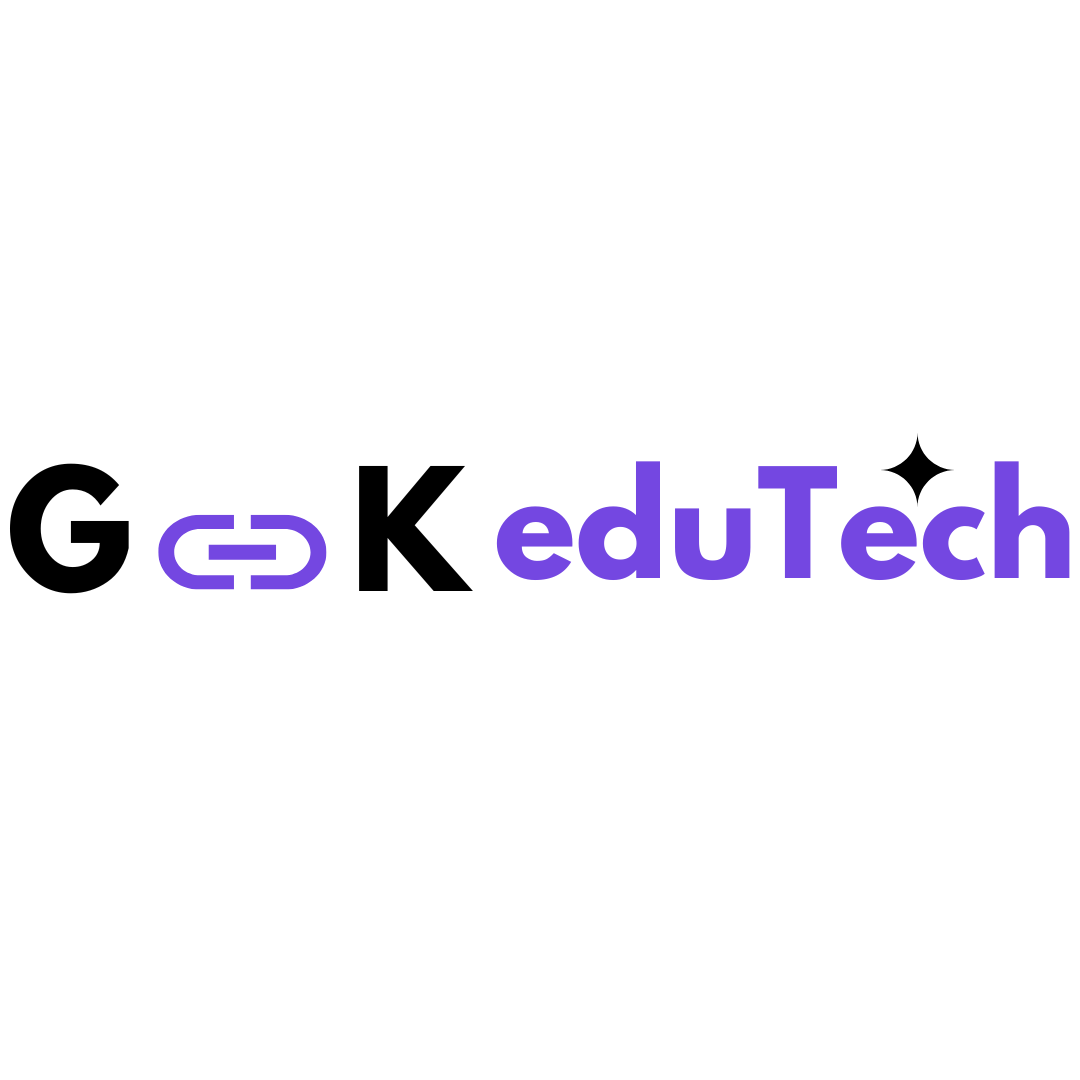
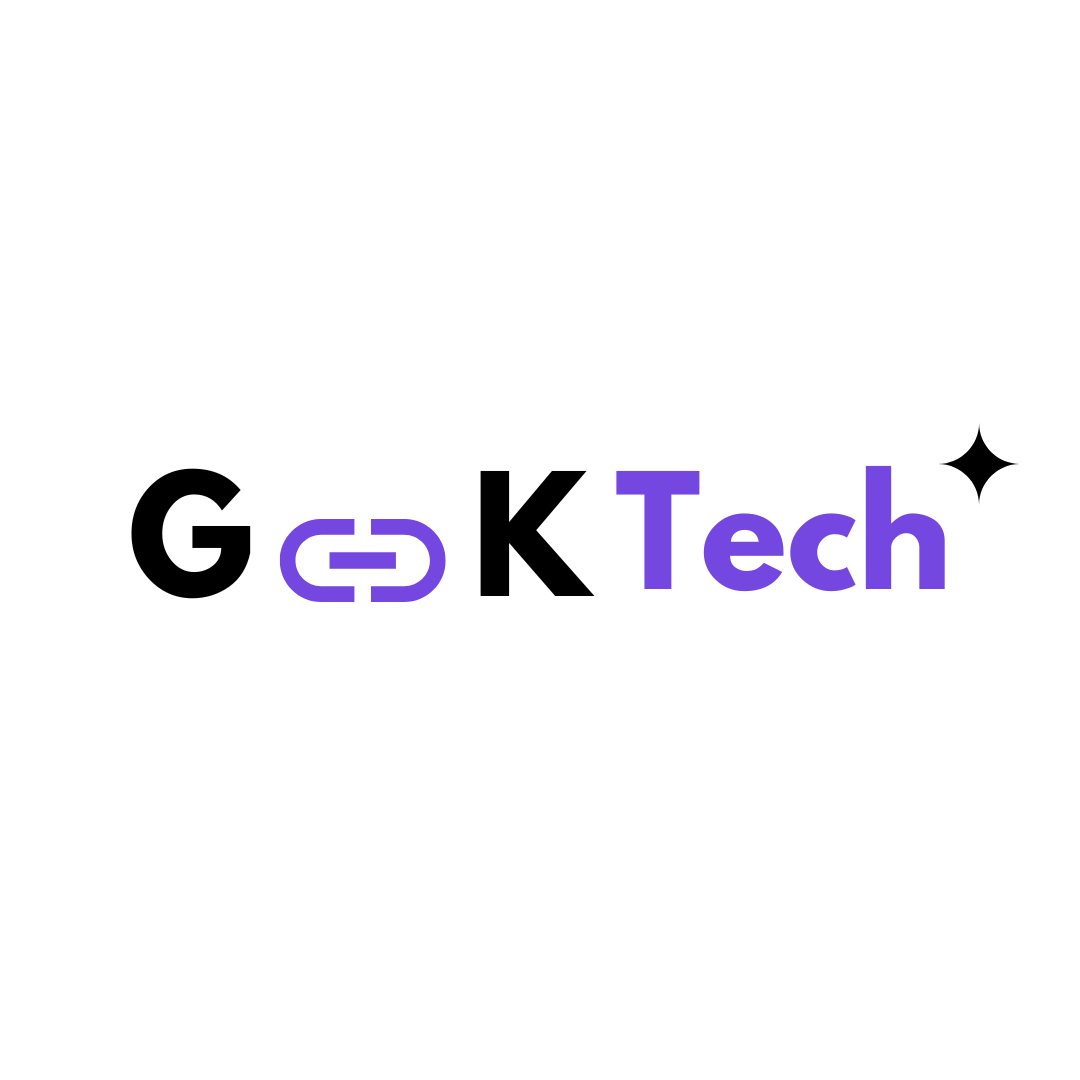
últimas atualizações

Changed region(s): [[0.0, 0.3972, 1.0, 0.5806]]

diff --git a/index.html b/index.html
@@ -7,7 +7,7 @@
   <meta name="viewport" content="width=device-width, initial-scale=1.0">
   <link rel="shortcut icon" href="./" type="image/x-icon">
   <link rel="shortcut icon" href="./assets/favicon.png" type="image/x-icon">
-  <title>GK Edu Tech</title>
+  <title>GK Tech</title>
   <link href="https://cdn.jsdelivr.net/npm/bootstrap@5.3.3/dist/css/bootstrap.min.css" rel="stylesheet"
     integrity="sha384-QWTKZyjpPEjISv5WaRU9OFeRpok6YctnYmDr5pNlyT2bRjXh0JMhjY6hW+ALEwIH" crossorigin="anonymous">
   <link rel="stylesheet" href="https://cdn.jsdelivr.net/npm/bootstrap-icons@1.10.5/font/bootstrap-icons.css">
@@ -67,7 +67,7 @@
 
     <section class="banners banner-1 d-flex flex-column justify-content-center row">
       <div class="banners-titulo m-lg-5  py-5 p-4 text-start col-lg-4 col-md-12 col-12  bg-body-secondary">
-        <h2 class="fw-bold">GK Edu Tech - Transformando ideias em tecnologia.</h2>
+        <h2 class="fw-bold">GK Tech - Transformando ideias em tecnologia.</h2>
         <p class="">Seja bem-vindo à GK Edu Tech! Aqui você encontra soluções em tecnologia para impulsionar o seu
           negócio.</p>
       </div>
@@ -92,7 +92,7 @@
           <div class="card border-0 mx-auto btn" data-bs-toggle="modal" data-bs-target="#modal-2" style="width: 18rem;">
             <img src="./public/assets/img/gk - edutech (1080 x 1080 px).png" class="card-img-top" alt="Café expresso.">
             <div class="card-body">
-              <h4 class="card-text fw-bold text-center">Como surgiu a ideia da GK EduTech ?</h4>
+              <h4 class="card-text fw-bold text-center">Como surgiu a ideia da GK Tech ?</h4>
             </div>
           </div>
         </div>
@@ -101,7 +101,7 @@
           <div class="card border-0 mx-auto btn" data-bs-toggle="modal" data-bs-target="#modal-3" style="width: 18rem;">
             <img src="./public/assets/img/por que a gk.jpg" class="card-img-top" alt="Vitaminas variadas">
             <div class="card-body">
-              <h4 class="card-text text-center fw-bold text-center">Por que escolher a GK EduTech ?</h4>
+              <h4 class="card-text text-center fw-bold text-center">Por que escolher a GK Tech ?</h4>
             </div>
           </div>
         </div>
@@ -206,8 +206,7 @@
 
         <div class="col-12 col-md-6 col-lg-4">
           <a href="https://serplural.com.br/" target="_blank">
-            <div class="card border-0 mx-auto btn" data-bs-toggle="modal" data-bs-target="#modal-1"
-              style="width: 18rem;">
+            <div class="card border-0 mx-auto btn" style="width: 18rem;">
               <img src="./public/assets/img/serplural.png" class="card-img-top"
                 alt="Print da tela inicial do site da Clínica ser Plural">
               <div class="card-body">
@@ -218,7 +217,7 @@
         </div>
 
         <div class="col-12 col-md-6 col-lg-4">
-          <div class="card border-0 mx-auto btn" data-bs-toggle="modal" data-bs-target="#modal-2" style="width: 18rem;">
+          <div class="card border-0 mx-auto btn" style="width: 18rem;">
             <img src="./public/assets/img/desenvolvimento.jpg" class="card-img-top" alt=" ">
             <div class="card-body">
               <h3 class="card-text fw-bold text-nowrap">Em desenvolvimento</h3>
@@ -237,51 +236,51 @@
       </div>
     </section>
 
-    <section class="py-4 container">
+    <section class="py-4 container" id="contato">
       <div class="row">
-        <div class="col-10 col-xl-8 mx-auto">
-          <div class="border border-2 rounded p-3">
-            <h3 class="fw-bold p-3 text-center">Entre em contato!</h3>
-            <form id="contato">
-              <div class="form-floating mb-3">
-                <input type="text" class="form-control" id="floatingNome" placeholder="Nome">
-                <label for="floatingNome">Nome</label>
+        <div class="border border-2 rounded p-3">
+          <h3 class="fw-bold p-3 text-center">Entre em contato!</h3>
+          <div class="wrapper">
+            <div class="row mb-5">
+              <div class="col-md-4">
+                <div class="dbox w-100 text-center">
+                  <div class="icon d-flex align-items-center justify-content-center">
+                    <span class="bi bi-phone"></span>
+                  </div>
+                  <div class="text">
+                    <p><span>Celular:</span> <a href="tel://+5519992461869">(19) 99246 - 1869</a></p>
+                  </div>
+                </div>
               </div>
-              <div class="form-floating mb-3">
-                <input type="email" class="form-control" id="floatingEmail" placeholder="name@example.com">
-                <label for="floatingEmail">Email</label>
+              <div class="col-md-4">
+                <div class="dbox w-100 text-center">
+                  <div class="icon d-flex align-items-center justify-content-center">
+                    <span class="bi bi-envelope-at"></span>
+                  </div>
+                  <div class="text">
+                    <p><span>Email:</span> <a href="mailto:guiikal@hotmail.com">guiikal@hotmail.com</a></p>
+                  </div>
+                </div>
               </div>
-              <div class="form-floating mb-3">
-                <input type="number" class="form-control" id="floatingTelefone" placeholder="Telefone">
-                <label for="floatingTelefone">Telefone</label>
+              <div class="col-md-4">
+                <div class="dbox w-100 text-center">
+                  <div class="icon d-flex align-items-center justify-content-center">
+                    <span class="bi bi-github"></span>
+                  </div>
+                  <div class="text">
+                    <p><span>Github:</span> <a href="https://github.com/GuiiKal" target="_blank">GuiiKal</a></p>
+                  </div>
+                </div>
               </div>
-              <select class="form-select mb-3" aria-label="Default select example">
-                <option selected>Preferência de contato:</option>
-                <option value="1">WhatsApp</option>
-                <option value="2">Email</option>
-                <option value="3">Ligação</option>
-              </select>
-              <label for="nivel-satisfacao" class="form-label">Nível de satisfação:</label>
-              <input type="range" class="form-range input-range" id="nivel-satisfacao">
-              <div class="form-check">
-                <input class="form-check-input" type="checkbox" value="" id="flexCheckDefault">
-                <label class="form-check-label" for="flexCheckDefault">
-                  Deseja receber novidades por email?
-                </label>
-              </div>
-              <button type="button" class="btn botao-padrao w-100 fw-bold mt-3 py-3">Enviar</button>
-            </form>
+            </div>
           </div>
         </div>
       </div>
-
     </section>
 
     <footer class="text-center">
       <section class="container p-4 pb-0 mb-4">
-        <a class="btn" href="#!"><i class="bi bi-whatsapp"></i></a>
-        <a class="btn" href="#!"><i class="bi bi-instagram"></i></a>
-        <a class="btn" href="#!"><i class="bi bi-github"></i></a>
+        <a class="btn" href="#!"><img src="./public/assets/img/gk - edutech - footer.png" alt=""></a>
       </section>
       <div class="p-3">
         2023 <i class="bi bi-c-circle"></i> Desenvolvido por Guilherme Kal.
@@ -450,16 +449,21 @@
           <button type="button" class="btn-close" data-bs-dismiss="modal" aria-label="Close"></button>
         </div>
         <div class="modal-body">
-          <img src="./public/assets/img/gk - edutech.png" class="w-100 img-fluid" alt="Xícara de café expresso">
-          <p>Somos conhecidos também por nossos cafés especiais, que são cuidadosamente preparados com grãos
-            selecionados de alta qualidade e técnicas de preparo precisas.</p>
-          <p>Entre as opções de cafés especiais do Café & Bistrô Serenatto, destacamos o café aeropress, que é
-            preparado com uma técnica de imersão e pressão, resultando em uma bebida de sabor intenso e
-            aroma acentuado. Outra opção popular é o café Hario V60, que é preparado com um filtro de papel
-            em formato de cone e resulta em uma bebida limpa e suave, ressaltando as notas sensoriais dos
-            grãos. Além disso, oferecemos uma variedade de bebidas geladas, como o café gelado, que é
-            preparado com grãos torrados escuros e servido com gelo e leite, resultando em uma bebida
-            refrescante e saborosa.</p>
+          <img src="./public/assets/img/gk - edutech (1080 x 1080 px).png" class="w-100 img-fluid"
+            alt="Xícara de café expresso">
+          <p>A GK Tech nasceu com a missão de transformar a presença digital de pessoas e empresas, elevando o nível de
+            profissionalismo na internet. Fundada com a visão de que a tecnologia deve ser acessível e compreensível
+            para
+            todos, nossa empresa se dedica à criação de websites de alta qualidade, projetados para destacar o melhor de
+            cada cliente no mundo online.</p>
+
+          <p> Além disso, na GK Tech, acreditamos no poder do conhecimento compartilhado. Por isso, oferecemos
+            treinamentos
+            e consultorias em tecnologia, capacitando indivíduos a se desenvolverem e se destacarem em um mercado cada
+            vez
+            mais competitivo.</p>
+
+          <p>Junte-se a nós e descubra como a GK Tech pode impulsionar seu sucesso na era da informação</p>
         </div>
         <div class="modal-footer mx-auto">
           <button type="button" class="btn btn-secondary botao-padrao border-0" data-bs-dismiss="modal">Fechar
@@ -469,8 +473,8 @@
     </div>
   </div>
 
-   <!-- Modal 3 -->
-   <div class="modal fade" id="modal-3" tabindex="-1" aria-labelledby="exampleModalLabel" aria-hidden="true">
+  <!-- Modal 3 -->
+  <div class="modal fade" id="modal-3" tabindex="-1" aria-labelledby="exampleModalLabel" aria-hidden="true">
     <div class="modal-dialog">
       <div class="modal-content">
         <div class="modal-header">
@@ -478,16 +482,13 @@
           <button type="button" class="btn-close" data-bs-dismiss="modal" aria-label="Close"></button>
         </div>
         <div class="modal-body">
-          <img src="./public/assets/img/gk - edutech.png" class="w-100 img-fluid" alt="Xícara de café expresso">
-          <p>Somos conhecidos também por nossos cafés especiais, que são cuidadosamente preparados com grãos
-            selecionados de alta qualidade e técnicas de preparo precisas.</p>
-          <p>Entre as opções de cafés especiais do Café & Bistrô Serenatto, destacamos o café aeropress, que é
-            preparado com uma técnica de imersão e pressão, resultando em uma bebida de sabor intenso e
-            aroma acentuado. Outra opção popular é o café Hario V60, que é preparado com um filtro de papel
-            em formato de cone e resulta em uma bebida limpa e suave, ressaltando as notas sensoriais dos
-            grãos. Além disso, oferecemos uma variedade de bebidas geladas, como o café gelado, que é
-            preparado com grãos torrados escuros e servido com gelo e leite, resultando em uma bebida
-            refrescante e saborosa.</p>
+          <img src="./public/assets/img/gk - edutech (1080 x 1080 px).png" class="w-100 img-fluid" alt="Xícara de café expresso">
+          <p>A GK Tech é a escolha ideal para quem busca se destacar na internet com profissionalismo e inovação.
+            Nascemos com a missão de ajudar pessoas e empresas a alcançarem seu potencial máximo online. Nosso
+            compromisso com a Inovação Contínua assegura o uso das mais recentes tecnologias e metodologias em nossos
+            serviços. Além disso, valorizamos Colaboração e Parceria, trabalhando junto a nossos clientes para alcançar
+            resultados excepcionais. Com Empatia e Respeito, criamos um ambiente onde cada cliente é ouvido e
+            valorizado.</p>
         </div>
         <div class="modal-footer mx-auto">
           <button type="button" class="btn btn-secondary botao-padrao border-0" data-bs-dismiss="modal">Fechar
@@ -503,7 +504,7 @@
     integrity="sha384-YvpcrYf0tY3lHB60NNkmXc5s9fDVZLESaAA55NDzOxhy9GkcIdslK1eN7N6jIeHz"
     crossorigin="anonymous"></script>
 
-<!-- botão wpp -->
+  <!-- botão wpp -->
   <div id="whatswidget-pre-wrapper" class="">
     <div id="whatswidget-widget-wrapper" class="whatswidget-widget-wrapper" style="all:revert;">
       <div id="whatswidget-conversation" class="whatswidget-conversation"

diff --git a/public/css/style.css b/public/css/style.css
@@ -74,3 +74,7 @@ body {
       --bs-body-color: white;
     }
   }
+
+  #contato a{
+    color: var(--roxo-escuro);
+  }
